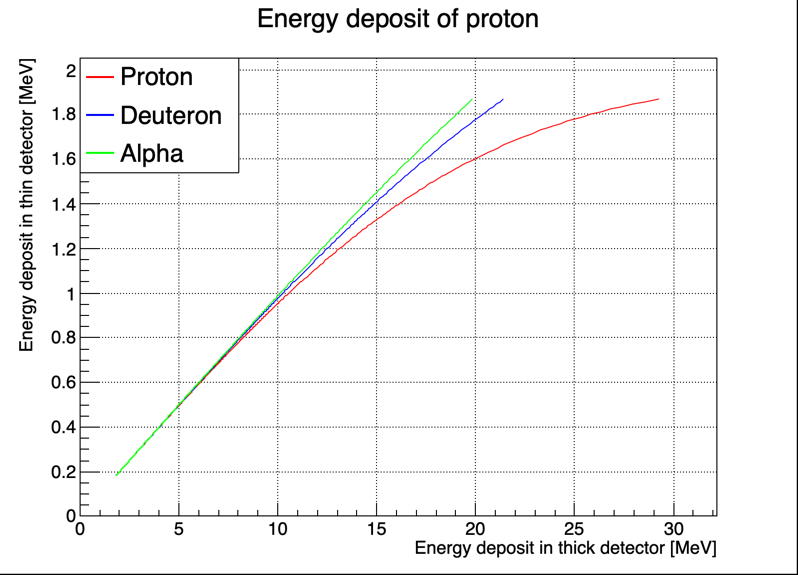
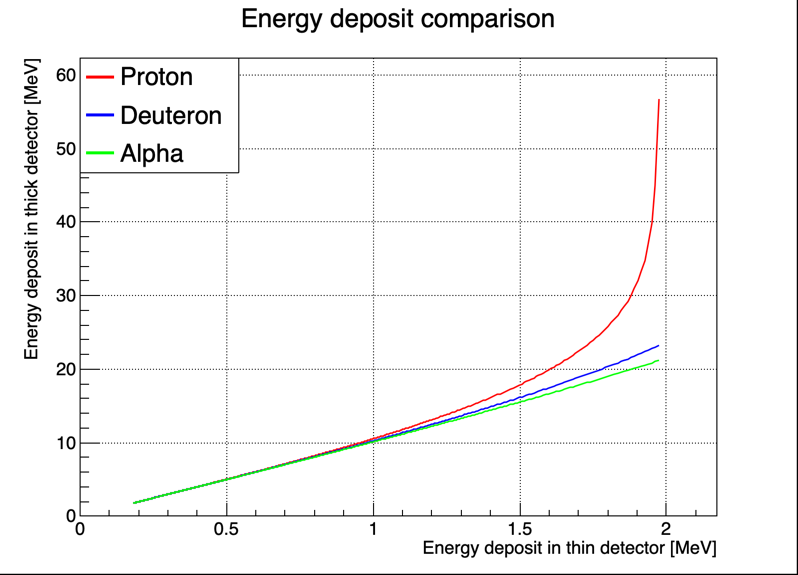
a

diff --git a/scripts/rad_detect_2/energy_deposit.C b/scripts/rad_detect_2/energy_deposit.C
@@ -35,7 +35,7 @@
 Double_t energy_deposit(){
     Double_t beta_gamma = 0.0;
     Double_t step_beta_gamma = 0.001;
-    Double_t beta_gamma_min = 0.26;
+    Double_t beta_gamma_min = 0.252;
     Double_t beta_gamma_max = 10.0;
 
     Double_t m_proton = 0.938272*1000.0;
@@ -67,7 +67,20 @@ Double_t energy_deposit(){
     Double_t energy_deposit_thin_max = 0.0, energy_deposit_thick_max = 0.0, energy_deposit_thin_min = 1e5, energy_deposit_thick_min = 1e5;
     for(Int_t particle_id=0; particle_id<3; particle_id++){
         mass_buf = mass_list[particle_id];
-        charge_buf = pow(2.0, particle_id); // 1 for proton, 2 for deuteron, 4 for alpha
+
+        if(particle_id == 0){
+            charge_buf = 1.0; // 1 for proton
+        }
+        else if(particle_id == 1){
+            charge_buf = 1.0; // 1 for deuteron
+        }
+        else if(particle_id == 2){
+            charge_buf = 2.0; // 2 for alpha
+        }
+        else{
+            charge_buf = 0.0;
+        }
+
         beta_gamma = beta_gamma_min;
         // beta_gamma = 0.1;
 
@@ -81,6 +94,7 @@ Double_t energy_deposit(){
             particle_energy_buf = mass_buf*(beta_gamma/beta_buf); // in GeV
 
             for(Int_t n_detector=0; n_detector<10; n_detector++){
+                printf("\tparticle: %f MeV/c2, incident beta gamma: %f, num of detector passed: %d, beta: %f\n", mass_list[particle_id], beta_gamma, n_detector+1, beta_buf);
                 energy_deposit_buf = charge_buf*0.18*pow(beta_buf, -1.7); //in MeV
                 // energy_deposit_buf = 0.18*pow(beta_buf, -1.7); //in MeV
                 if(n_detector == 0){
@@ -119,44 +133,44 @@ Double_t energy_deposit(){
         }
     }
 
-    TGraph *graph1 = new TGraph(E_thin_detector[0].size(), &E_thick_detector[0][0], &E_thin_detector[0][0]);
-    graph1->SetTitle("Energy deposit of proton");
-    graph1->GetXaxis()->SetTitle("Energy deposit in thick detector [MeV]");
-    graph1->GetYaxis()->SetTitle("Energy deposit in thin detector [MeV]");
+    TGraph *graph1 = new TGraph(E_thin_detector[0].size(), &E_thin_detector[0][0], &E_thick_detector[0][0]);
+    graph1->SetTitle("Energy deposit comparison");
+    graph1->GetYaxis()->SetTitle("Energy deposit in thick detector [MeV]");
+    graph1->GetXaxis()->SetTitle("Energy deposit in thin detector [MeV]");
     graph1->SetMarkerStyle(20);
     graph1->SetMarkerSize(0.5);
     graph1->SetLineColor(kRed);
-    graph1->GetXaxis()->SetRangeUser(0, energy_deposit_thick_max*1.1);
-    graph1->GetYaxis()->SetRangeUser(0, energy_deposit_thin_max*1.1);
-    graph1->GetXaxis()->SetLimits(0, energy_deposit_thick_max*1.1);
-    graph1->GetYaxis()->SetLimits(0, energy_deposit_thin_max*1.1);
-    graph1->SetLineWidth(2);
+    graph1->GetYaxis()->SetRangeUser(0, energy_deposit_thick_max*1.1);
+    graph1->GetXaxis()->SetRangeUser(0, energy_deposit_thin_max*1.1);
+    graph1->GetYaxis()->SetLimits(0, energy_deposit_thick_max*1.1);
+    graph1->GetXaxis()->SetLimits(0, energy_deposit_thin_max*1.1);
+    graph1->SetLineWidth(3);
 
-    TGraph *graph2 = new TGraph(E_thin_detector[1].size(), &E_thick_detector[1][0], &E_thin_detector[1][0]);
-    graph2->SetTitle("Energy deposit of deuteron");
-    graph2->GetXaxis()->SetTitle("Energy deposit in thick detector [MeV]");
-    graph2->GetYaxis()->SetTitle("Energy deposit in thin detector [MeV]");
+    TGraph *graph2 = new TGraph(E_thin_detector[1].size(), &E_thin_detector[1][0], &E_thick_detector[1][0]);
+    graph2->SetTitle("Energy deposit comparison");
+    graph2->GetYaxis()->SetTitle("Energy deposit in thick detector [MeV]");
+    graph2->GetXaxis()->SetTitle("Energy deposit in thin detector [MeV]");
     graph2->SetMarkerStyle(20);
     graph2->SetMarkerSize(0.5);
     graph2->SetLineColor(kBlue);
-    graph2->GetXaxis()->SetRangeUser(0, energy_deposit_thick_max*1.1);
-    graph2->GetYaxis()->SetRangeUser(0, energy_deposit_thin_max*1.1);
-    graph2->GetXaxis()->SetLimits(0, energy_deposit_thick_max*1.1);
-    graph2->GetYaxis()->SetLimits(0, energy_deposit_thin_max*1.1);
-    graph2->SetLineWidth(2);
+    graph2->GetYaxis()->SetRangeUser(0, energy_deposit_thick_max*1.1);
+    graph2->GetXaxis()->SetRangeUser(0, energy_deposit_thin_max*1.1);
+    graph2->GetYaxis()->SetLimits(0, energy_deposit_thick_max*1.1);
+    graph2->GetXaxis()->SetLimits(0, energy_deposit_thin_max*1.1);
+    graph2->SetLineWidth(3);
 
-    TGraph *graph3 = new TGraph(E_thin_detector[2].size(), &E_thick_detector[2][0], &E_thin_detector[2][0]);
-    graph3->SetTitle("Energy deposit of alpha");
-    graph3->GetXaxis()->SetTitle("Energy deposit in thick detector [MeV]");
-    graph3->GetYaxis()->SetTitle("Energy deposit in thin detector [MeV]");
+    TGraph *graph3 = new TGraph(E_thin_detector[2].size(), &E_thin_detector[2][0], &E_thick_detector[2][0]);
+    graph3->SetTitle("Energy deposit comparison");
+    graph3->GetYaxis()->SetTitle("Energy deposit in thick detector [MeV]");
+    graph3->GetXaxis()->SetTitle("Energy deposit in thin detector [MeV]");
     graph3->SetMarkerStyle(20);
     graph3->SetMarkerSize(0.5);
     graph3->SetLineColor(kGreen);
-    graph3->GetXaxis()->SetRangeUser(0, energy_deposit_thick_max*1.1);
-    graph3->GetYaxis()->SetRangeUser(0, energy_deposit_thin_max*1.1);
-    graph3->GetXaxis()->SetLimits(0, energy_deposit_thick_max*1.1);
-    graph3->GetYaxis()->SetLimits(0, energy_deposit_thin_max*1.1);
-    graph3->SetLineWidth(2);
+    graph3->GetYaxis()->SetRangeUser(0, energy_deposit_thick_max*1.1);
+    graph3->GetXaxis()->SetRangeUser(0, energy_deposit_thin_max*1.1);
+    graph3->GetYaxis()->SetLimits(0, energy_deposit_thick_max*1.1);
+    graph3->GetXaxis()->SetLimits(0, energy_deposit_thin_max*1.1);
+    graph3->SetLineWidth(3);
 
     TCanvas *c1 = new TCanvas("c1", "Energy deposit", 800, 600);
     c1->SetGrid();

diff --git a/scripts/rad_detect_2/energy_deposit_beta.C b/scripts/rad_detect_2/energy_deposit_beta.C
@@ -35,7 +35,7 @@
 Double_t energy_deposit_beta(){
     Double_t beta_gamma = 0.0;
     Double_t step_beta_gamma = 0.001;
-    Double_t beta_gamma_min = 0.26;
+    Double_t beta_gamma_min = 0.252;
     Double_t beta_gamma_max = 10.0;
 
     Double_t m_proton = 0.938272*1000.0;
@@ -67,7 +67,20 @@ Double_t energy_deposit_beta(){
     Double_t energy_deposit_thin_max = 0.0, energy_deposit_thick_max = 0.0, energy_deposit_thin_min = 1e5, energy_deposit_thick_min = 1e5;
     for(Int_t particle_id=0; particle_id<3; particle_id++){
         mass_buf = mass_list[particle_id];
-        charge_buf = pow(2.0, particle_id); // 1 for proton, 2 for deuteron, 4 for alpha
+        
+        if(particle_id == 0){
+            charge_buf = 1.0; // 1 for proton
+        }
+        else if(particle_id == 1){
+            charge_buf = 1.0; // 1 for deuteron
+        }
+        else if(particle_id == 2){
+            charge_buf = 2.0; // 2 for alpha
+        }
+        else{
+            charge_buf = 0.0;
+        }
+
         beta_gamma = beta_gamma_min;
         // beta_gamma = 0.1;
 
@@ -158,6 +171,7 @@ Double_t energy_deposit_beta(){
     graph1->SetMarkerStyle(20);
     graph1->SetMarkerSize(0.5);
     graph1->SetLineColor(kRed);
+    graph1->SetLineWidth(3);
 
     graph2->SetTitle("Energy deposit of deuteron");
     graph2->GetXaxis()->SetTitle("beta");
@@ -165,6 +179,7 @@ Double_t energy_deposit_beta(){
     graph2->SetMarkerStyle(20);
     graph2->SetMarkerSize(0.5);
     graph2->SetLineColor(kBlue);
+    graph2->SetLineWidth(3);
 
     graph3->SetTitle("Energy deposit of alpha");
     graph3->GetXaxis()->SetTitle("beta");
@@ -172,6 +187,7 @@ Double_t energy_deposit_beta(){
     graph3->SetMarkerStyle(20);
     graph3->SetMarkerSize(0.5);
     graph3->SetLineColor(kGreen);
+    graph3->SetLineWidth(3);
 
     TCanvas *c1 = new TCanvas("c1", "Energy deposit", 800, 600);
     c1->SetGrid();
